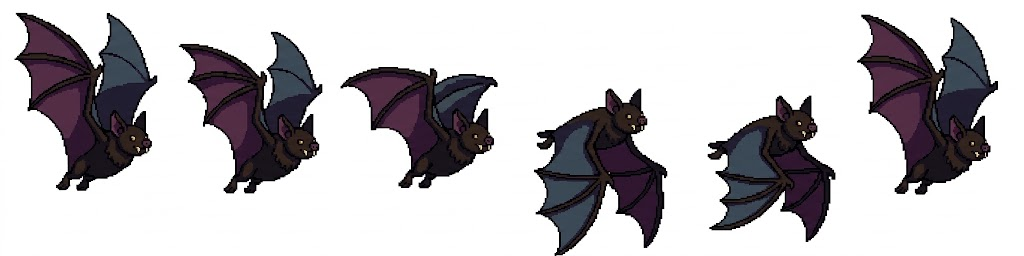
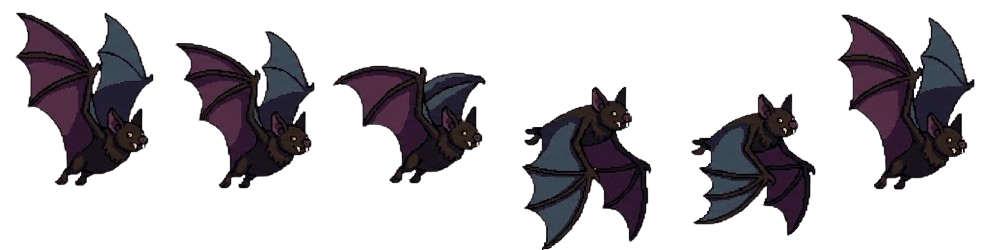
Fundo transparente no sprite do morcego e remoção do recorte de fundo branco

diff --git a/Source/Entidade.cpp b/Source/Entidade.cpp
@@ -1,7 +1,6 @@
 #include "Entidades/Entidade.hpp"
 
 #include <algorithm>
-#include <cstdlib>
 
 #ifndef ASSETS_DIR
 #define ASSETS_DIR "assets/"   // definido pelo CMake; isso é só um padrão
@@ -48,20 +47,7 @@ void Entidade::carregarTextura(const std::string& arquivo, int quadros, float es
     if (!imagem.loadFromFile(std::string(ASSETS_DIR) + arquivo))
         return;   // sem a imagem, a entidade continua sendo desenhada como retângulo
 
-    // Algumas imagens têm fundo branco em vez de transparente: se o canto
-    // for opaco, tudo que tiver quase a mesma cor do canto vira transparente.
     sf::Vector2u tam = imagem.getSize();
-    sf::Color fundo = imagem.getPixel({0, 0});
-    if (fundo.a == 255) {
-        for (unsigned y = 0; y < tam.y; y++) {
-            for (unsigned x = 0; x < tam.x; x++) {
-                sf::Color c = imagem.getPixel({x, y});
-                if (std::abs(c.r - fundo.r) < 25 && std::abs(c.g - fundo.g) < 25 &&
-                    std::abs(c.b - fundo.b) < 25)
-                    imagem.setPixel({x, y}, sf::Color::Transparent);
-            }
-        }
-    }
 
     if (!textura.loadFromImage(imagem))
         return;
